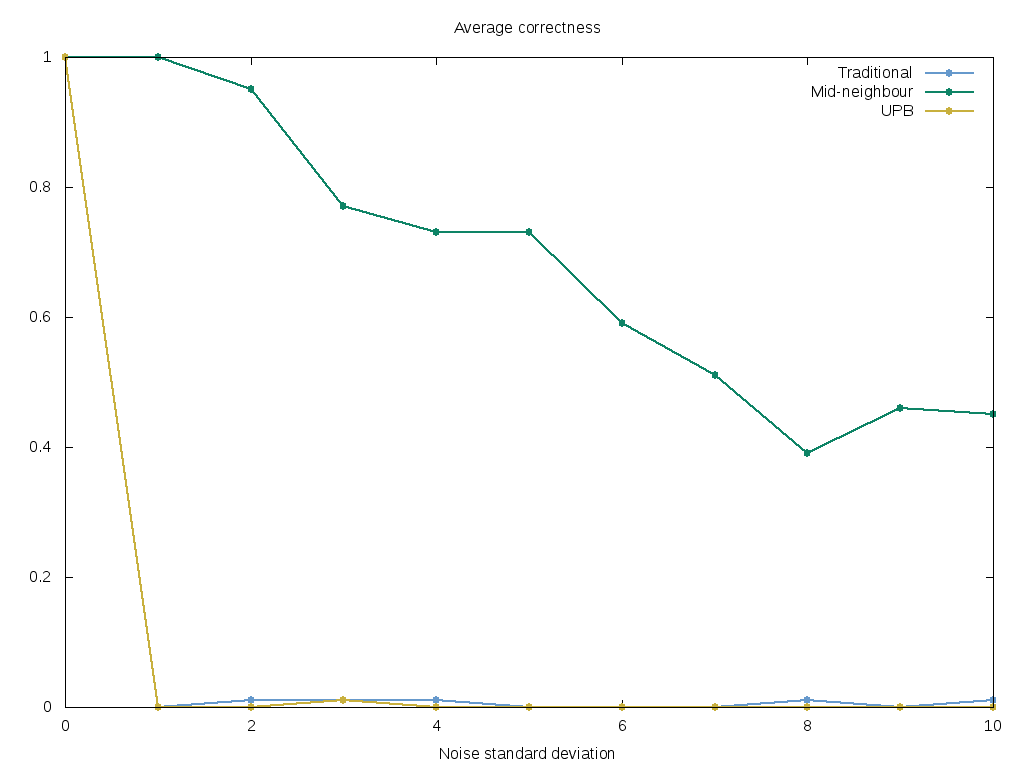
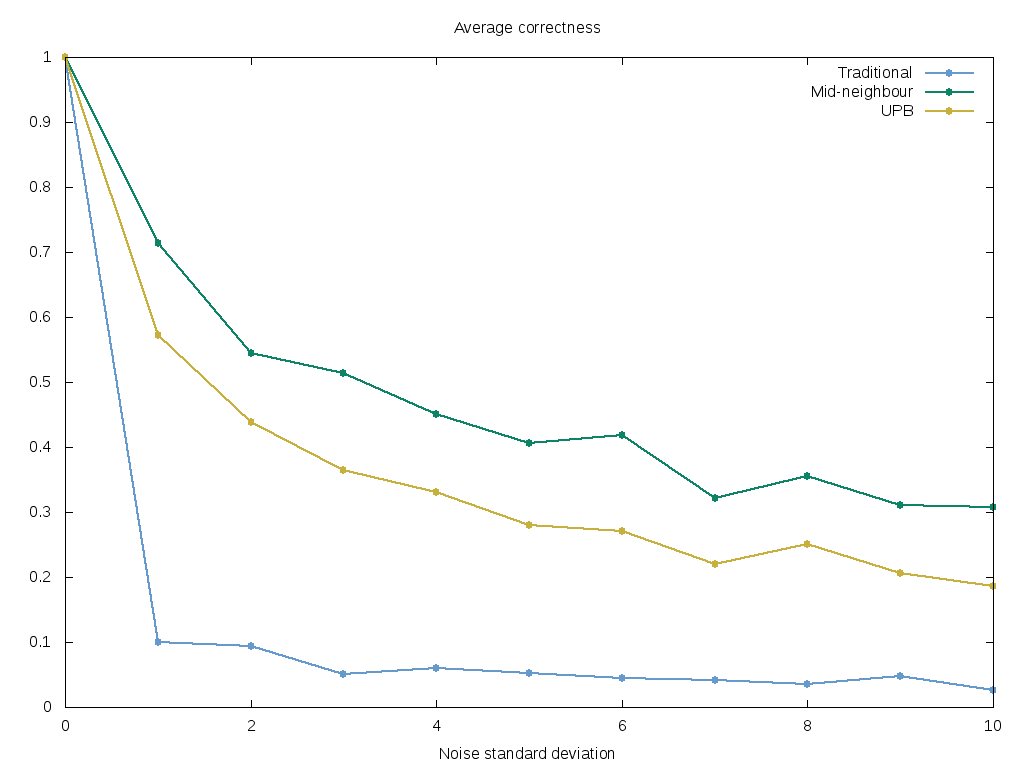
Changed the minimim of the generated curve to be .1, so there is less floating point problems

diff --git a/bisection/bisection.py b/bisection/bisection.py
@@ -182,33 +182,47 @@ def upb (v, pmf = []):
         pmf = [1.0 / n] * n
     
     evaluations = 0
+    
 
-    i = 0
+    eights = find_eighths (pmf)
+    median = eights[4][0]
+    alpha = eights[4][1]
+    first_qt = eights [2][0]
+    third_qt = eights [6][0]
+
     limit = 1000
-    while ((not valley (v, i)) and limit > 0):
+    while (first_qt is not median and \
+           median is not third_qt and limit > 0):
         evaluations += 3
+
         #print ("-------------\nIterating...")
         #print ("Initial pmf: ", pmf)
         #print ("v: ", v)
-        [i, alpha] = find_median (pmf)
         
-        #print ("i, alpha: ", i, ", ", alpha)
-        
-        direction = select_side (v, i)
+        #print ("1st qt: ", first_qt)
+        #print ("median, alpha: ", median, ", ", alpha)
+        #print ("3rd qt: ", third_qt)
+
+        direction = select_side (v, median)
         if (direction is 0):
-            [result, child_eval] = split_upb (v, pmf, i)
+            [result, child_eval] = split_upb (v, pmf, median)
             return [result, evaluations + child_eval]
         
         #print ("direction: ", direction)
-        
-        update_pmf (pmf, i, alpha, direction)
-        
+        update_pmf (pmf, median, alpha, direction)
         #print ("New pmf: ", pmf)
         #print ("pmf sum:", sum(pmf))
+        
+        eights = find_eighths (pmf)
+        median = eights[4][0]
+        alpha = eights[4][1]
+        first_qt = eights [1][0]
+        third_qt = eights [1][0]
+
         limit -= 1
 
     evaluations += 3
-    return [v[i], evaluations]
+    return [v[median], evaluations]
 
 
 def split_upb (v, pmf, i):
@@ -251,17 +265,22 @@ def normalize_pmf (pmf):
     
 
 
-def find_median (pmf):
-    """ Receives v and pmf and returns the index of v and alpha such that:
-        i = argmin {v[i] | P(x* <= i) >= 1/2}, and
-        alpha = P(x <= i) """
+def find_eighths (pmf):
+    """ Returns a vector of size 9 where the index i of the vector contains the 
+    "information" of the element x such that x is the smallest-indexed element where 
+    F (x) >= 8 / i, i.e it fetches the eights of the pmf. The information is a pair with
+    [i, alpha] where i is the index of x in the pmf and alpha is F(x) """
+    eights = [[0, 0]] * 9
     i = 0
     alpha = pmf[i]
-    while (alpha < .5):
-        i += 1
-        alpha += pmf[i]
-
-    return [i, alpha]
+    for j in range (1, 7):
+        
+        x = j / 8.0
+        while (alpha < x):
+            i += 1
+            alpha += pmf[i]
+        eights[j] = [i, alpha]
+    return eights
 
 def update_pmf (pmf, i, alpha, direction):
     """ if direction >= 0
@@ -270,7 +289,7 @@ def update_pmf (pmf, i, alpha, direction):
     and, similarly, for direction = -1 
         pmf_{n+1}(y) = (1/(1 - alpha))*qc*pmf_{n}(y) for y >= x_{n}
         pmf_{n+1}(y) = (1/alpha)*pc*pmf_{n}(y) for y < x_{n} """
-    pc = .75
+    pc = .55
     qc = 1 - pc
     
     if (direction < 0):

diff --git a/bisection/test_bisection.py b/bisection/test_bisection.py
@@ -6,14 +6,14 @@ from bisection import mid_neighbour_bisection
 from bisection import upb
 from time import time
 
-max_input_size = 10000
-test_size = 100.0
+max_input_size = 1000
+test_size = 500.0
 
 
 
 time_file = open ('time_data.txt', 'w')
 evaluations_file = open ('evaluations_data.txt', 'w')
-for j in range (10):
+for j in range (0):
     d_evaluations = 0
     m_evaluations = 0
     s_evaluations = 0
@@ -55,12 +55,12 @@ for j in range (10):
     evaluations_file.write (str (max_input_size) + " " + str (d_evaluations / test_size) + " " + str (m_evaluations / test_size) + " " + str (s_evaluations / test_size) + "\n")
     time_file.write (str (max_input_size) + " " + str (d_time) + " " + str (m_time) +  " " + str (s_time) + " " +"\n")
     
-    max_input_size += 10000
+    max_input_size += 1000
 
 evaluations_file.close ()
 time_file.close ()
 
-max_input_size = 1000
+max_input_size = 100
 correctness_file = open ('correctness_data.txt', 'w')
 # input noise parameter
 sigma = 0
@@ -85,16 +85,17 @@ for j in range (11):
             m_corrects = m_corrects + 1
 
         [result, evaluations] = upb (points)
-        if min (points) is result:
+        if abs (min (points) - result) / abs (min (points)) < .05:
             s_corrects = s_corrects + 1
-        else:
-            s_error = s_error + abs (min (points) - result) / min (points)    
+        
+        s_error = s_error + abs (min (points) - result) / abs (min (points))
 
     print ("Correctness for traditional bisection: ", d_corrects / test_size)
     print ("Correctness for mid-neighbour bisection: ", m_corrects / test_size)
     print ("Correctness for probabilistic bisection: ", s_corrects / test_size)
     print ("Average relative error of probabilistic bisection", s_error / test_size)
     correctness_file.write (str (sigma) + " " + str (d_corrects / test_size) + " " + str (m_corrects / test_size) + " " + str (s_corrects / test_size) + "\n")
-
+    
     sigma += 1
+
 correctness_file.close ()

diff --git a/bisection/gen_ucurve.py b/bisection/gen_ucurve.py
@@ -10,7 +10,7 @@ def gen_points (n, center):
     p = [0, 0, 0] # a, b, c
     p[0] = random.random () # a
     p[1] = -2 * p[0] * center  # b
-    p[2] = (p[1] * p[1]) / (4 * p[0])
+    p[2] = (p[1] * p[1] - .1) / (4 * p[0])
     
     dx = 1.0 / n
     x = 0
